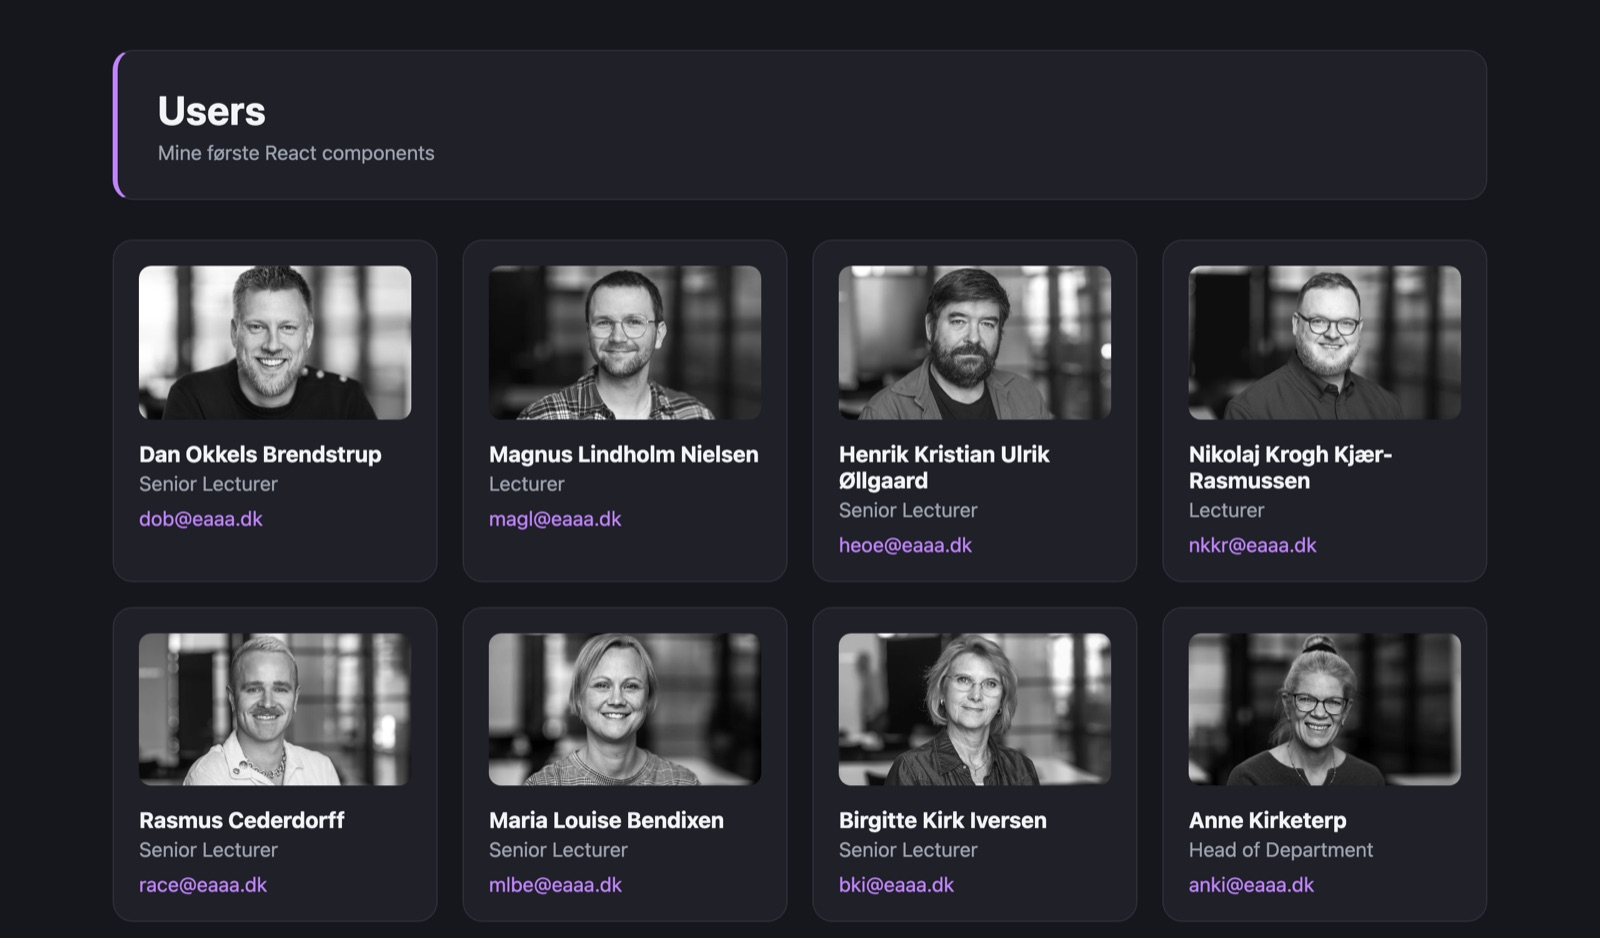
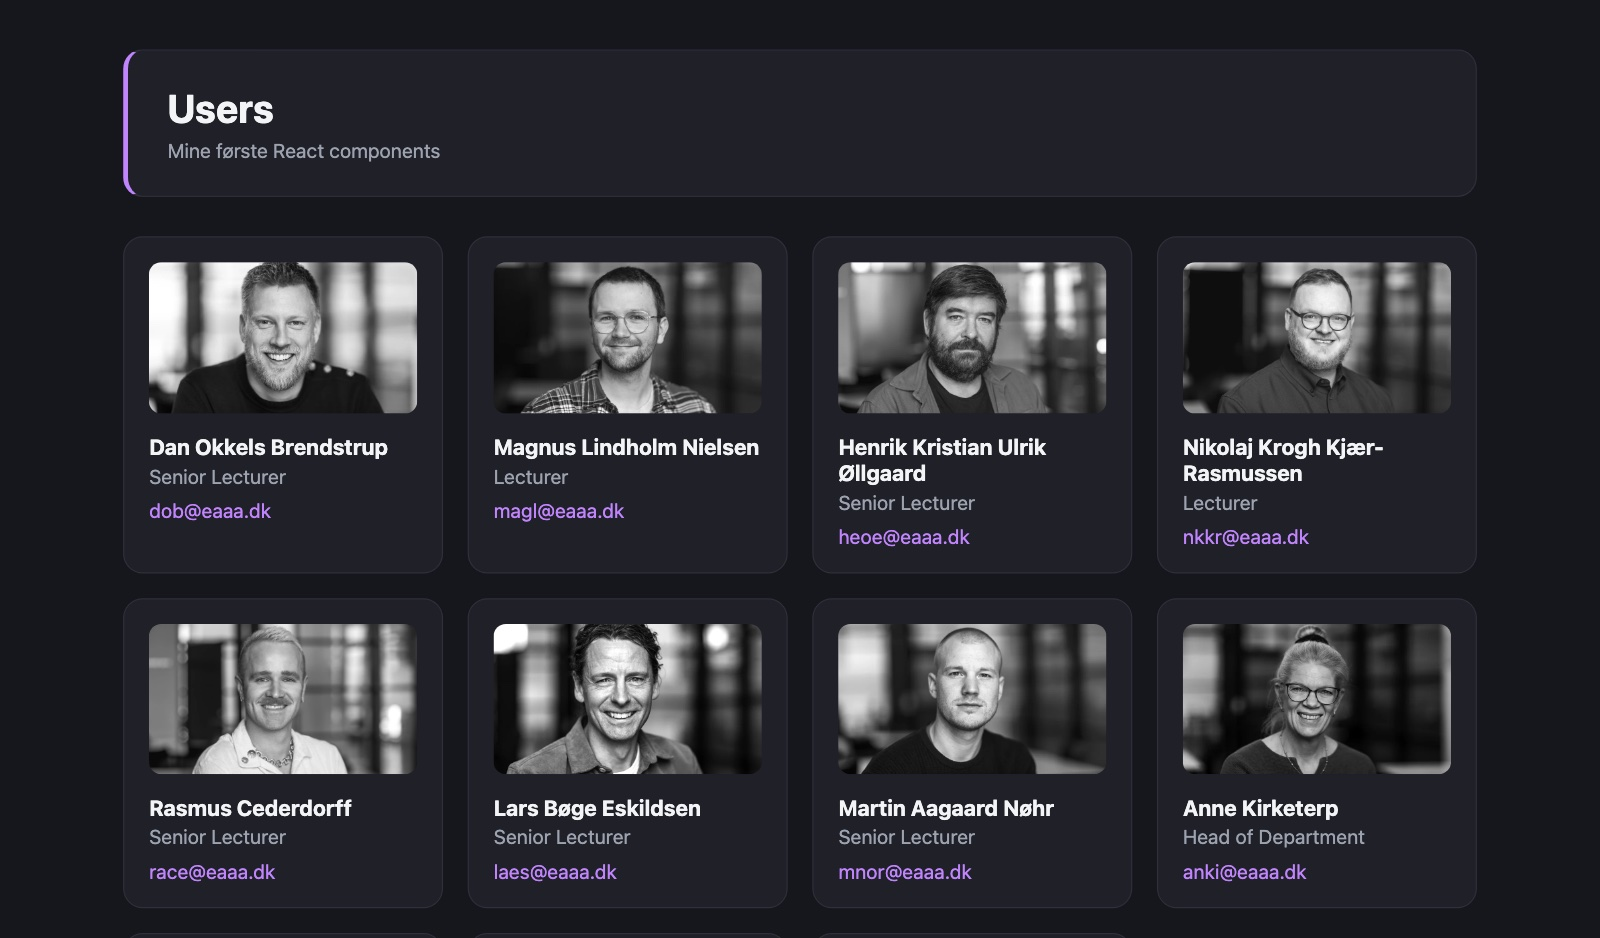
style: update user examples in React tutorial to include new names and data

diff --git a/slides/react-intro/index.html b/slides/react-intro/index.html
@@ -967,16 +967,16 @@ export default function App() {
           <div class="before-after">
             <article>
               <span>Før · skrevet i hånden</span>
-              <pre><code class="language-javascript">&lt;User name="Rasmus" ... /&gt;
-&lt;User name="Maria" ... /&gt;
-&lt;User name="Dan" ... /&gt;</code></pre>
+              <pre><code class="language-javascript">&lt;User name="Dan" ... /&gt;
+&lt;User name="Magnus" ... /&gt;
+&lt;User name="Rasmus" ... /&gt;</code></pre>
             </article>
             <b aria-hidden="true">→</b>
             <article>
               <span>Efter · data styrer, hvad der vises</span>
               <pre><code class="language-javascript">const users = [
-  { id: "fTs8...", name: "Rasmus", ... },
-  { id: "ZfPT...", name: "Maria", ... }
+  { id: "HlvR...", name: "Dan", ... },
+  { id: "esCq...", name: "Magnus", ... }
 ];
 
 {users.map(user =&gt; (
